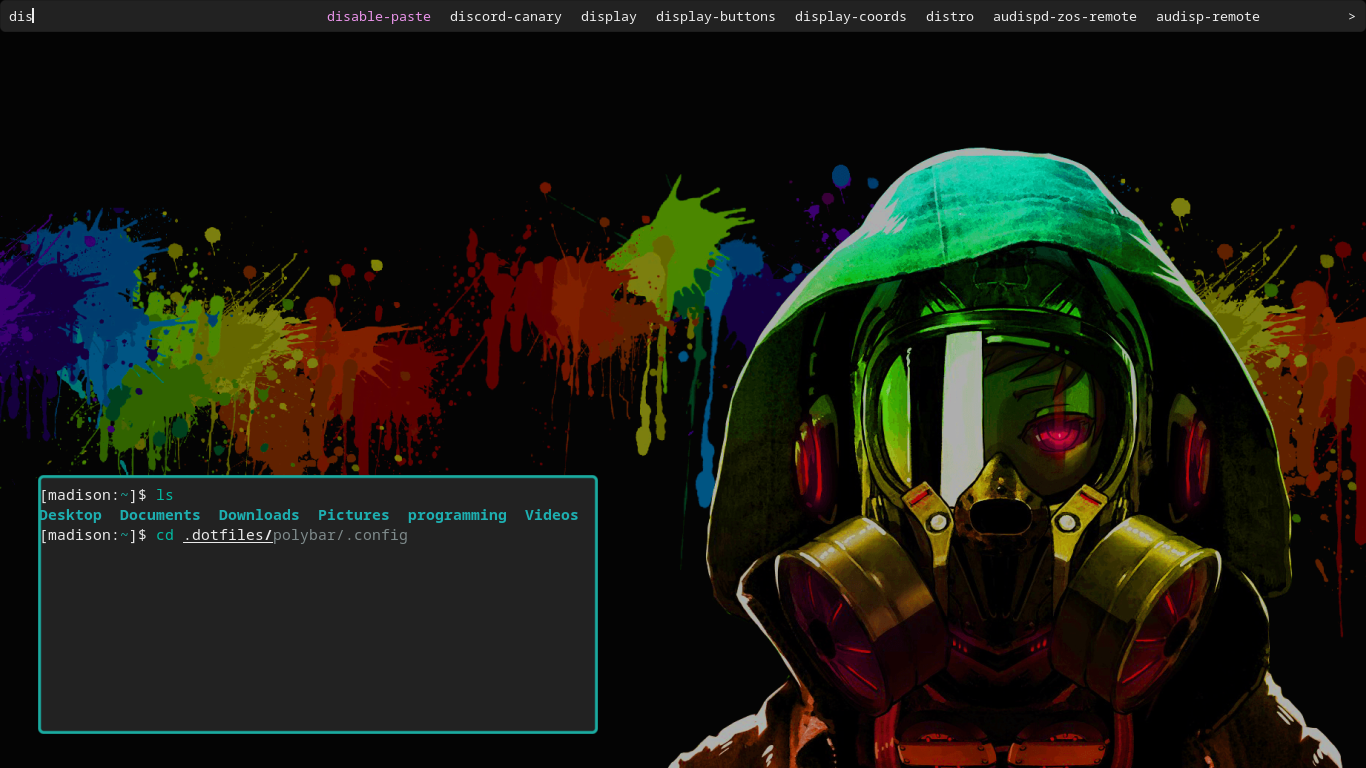
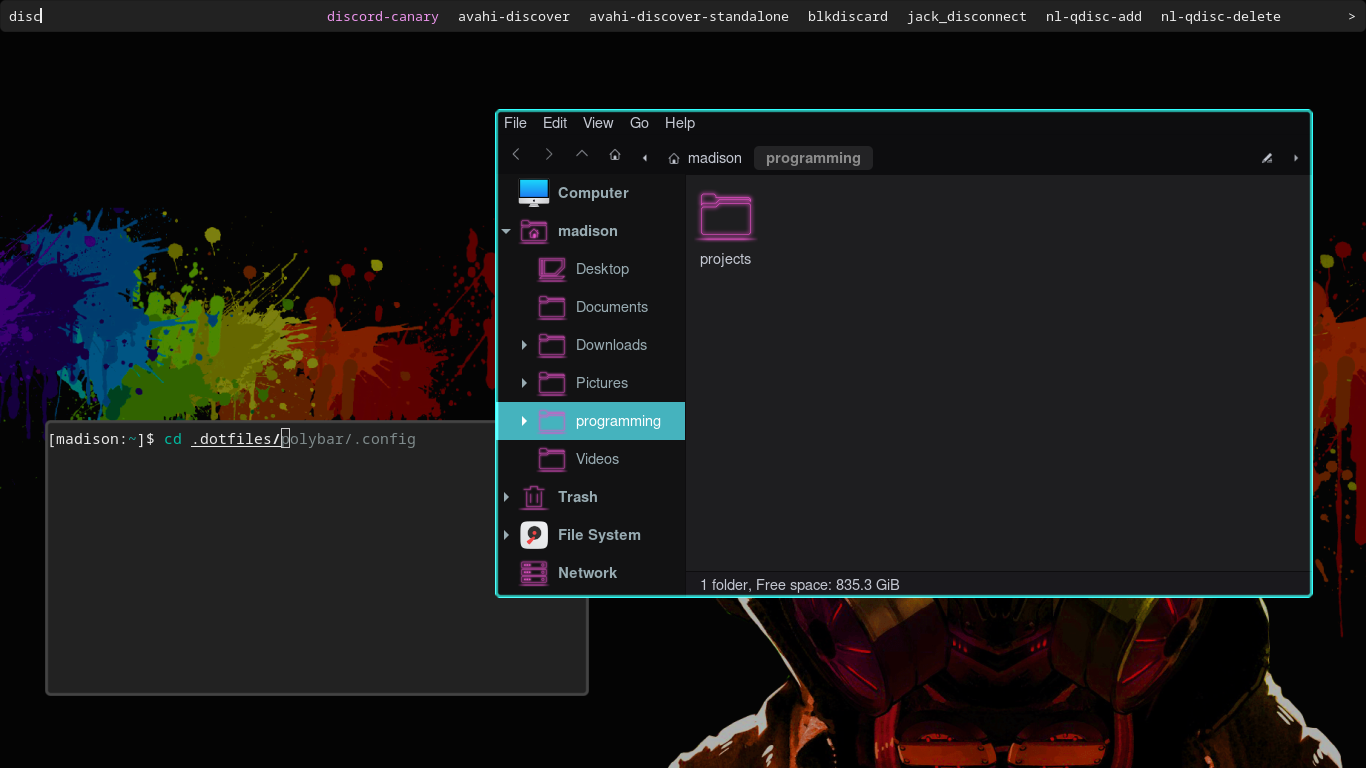
added screenshot-02

diff --git a/README.md b/README.md
@@ -10,10 +10,12 @@ My rice isnt as good as jasmine's, but its still tasty!
 💠 **Text Editor** ➙ [Neovim](https://neovim.io/)  
 💠 **Browser** ➙ [Firefox](https://www.mozilla.org/en-US/)  
 💠 **File manager** ➙ [Thunar](https://gitlab.xfce.org/xfce/thunar)  
-💠 **Notification daemon** ➙ [Dunst](https://github.com/dunst-project/dunst)  
+💠 **Widget** ➙ [Kimi-dark-v40](https://github.com/EliverLara/Kimi)  
+💠 **Icon Theme** ➙ [Lyra-rose-dark](https://github.com/yeyushengfan258/Lyra-icon-theme)  
+💠 **Mouse Cursor** ➙ [Breeze](https://github.com/ful1e5/BreezeX_Cursor)  
 
 Default Screenshot:
 ![](https://github.com/madison-craig/dotfiles/blob/main/screenshot-01.png?raw=true)  
 
-Dmenu, Kitty, & Zsh:
+Dmenu, Kitty+Zsh, & Thunar:
 ![](https://github.com/madison-craig/dotfiles/blob/main/screenshot-02.png?raw=true)  
